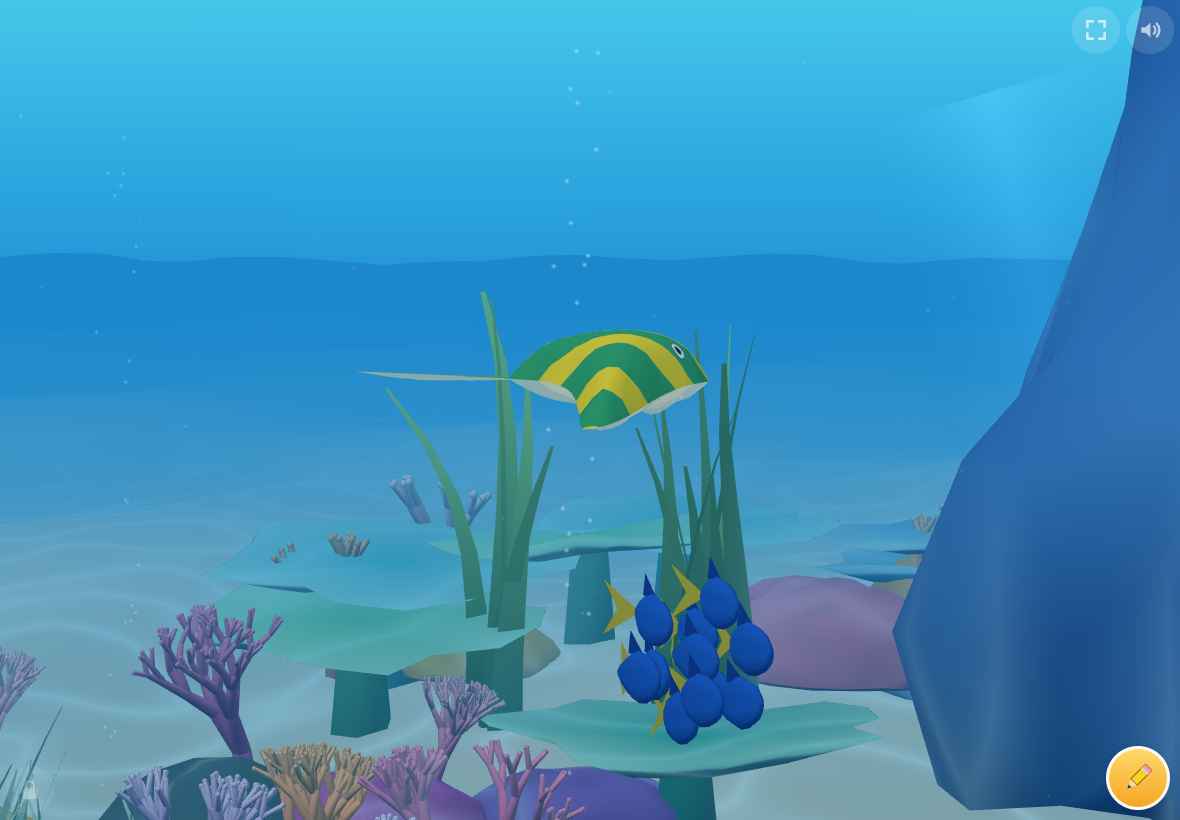
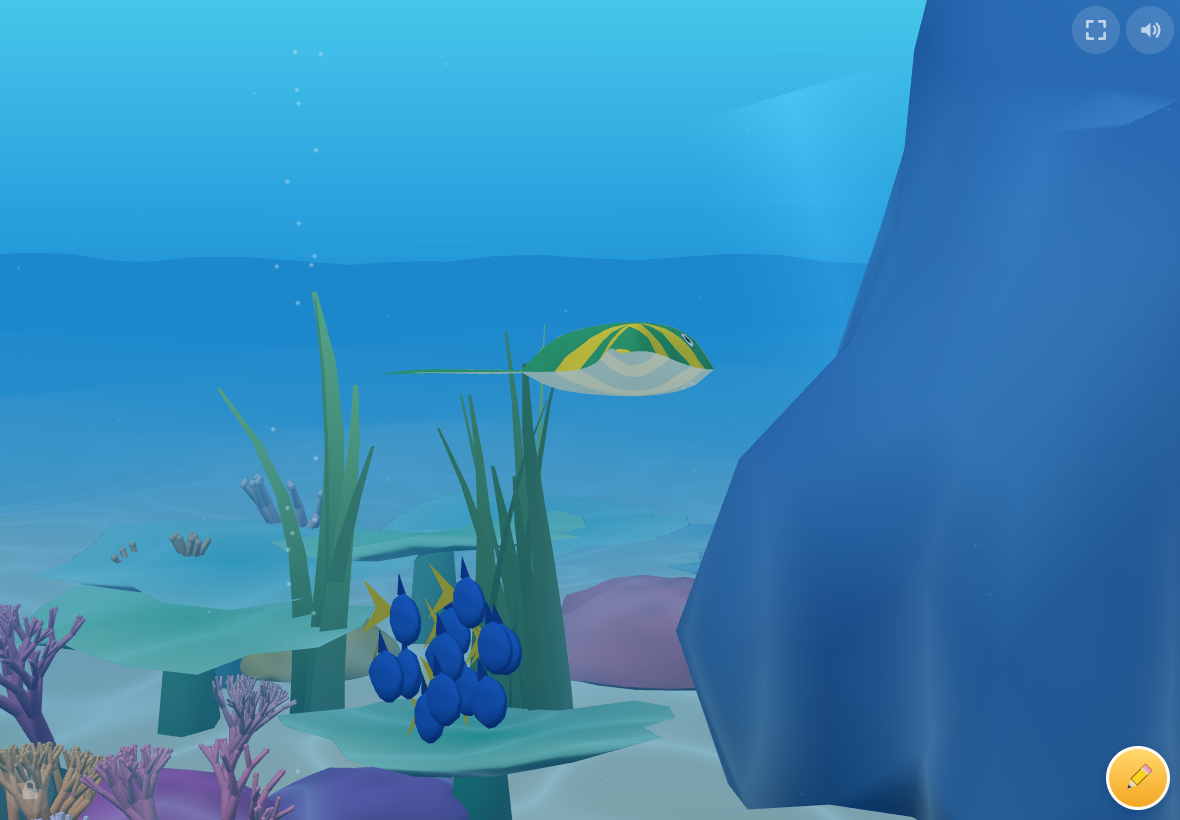
M8 tests: double tap and taps with the mouse, back to back, so a slow CI machine cannot stretch them
Claude-Session: https://claude.ai/code/session_01XW4PNQh5gj9EH5MLk7e84C

diff --git a/e2e/m8.spec.ts b/e2e/m8.spec.ts
@@ -1,6 +1,6 @@
 import { writeFileSync } from 'node:fs';
 import { expect, test } from '@playwright/test';
-import { creatureScreenPoint, holdRelease, line, newTouchPage, openPanel, PHONE, registrationError, reloadAndRestore, rigState, seedCreatures, sceneInfo, spawnAt, TABLET, tap, touchDrag, touchPinch } from './helpers';
+import { creatureScreenPoint, holdRelease, line, newTouchPage, openPanel, PHONE, registrationError, reloadAndRestore, rigState, seedCreatures, sceneInfo, spawnAt, TABLET, touchDrag, touchPinch } from './helpers';
 
 type Pg = import('@playwright/test').Page;
 type W = {
@@ -59,7 +59,7 @@ test.describe('M8: kameraet', () => {
     await adv(page, 0.2);
     const q = (await creatureScreenPoint(page, id2)) as { x: number; y: number };
     expect(q).not.toBeNull();
-    await tap(cdp, [q.x, q.y]);
+    await page.mouse.click(q.x, q.y);
     await expect.poll(() => page.evaluate((cid) => !!(window as unknown as W).aquarium.creatures.creatures.find((c) => c.id === cid)?.reaction, id2)).toBe(true);
 
     // 9 px of finger wobble is still a tap; the drag starts after ~10 px.
@@ -196,9 +196,7 @@ test.describe('M8: følg dyr', () => {
     await adv(page, 0.2);
     const p = (await creatureScreenPoint(page, id)) as { x: number; y: number };
     expect(p).not.toBeNull();
-    await tap(cdp, [p.x, p.y]);
-    await page.waitForTimeout(120);
-    await tap(cdp, [p.x, p.y]);
+    await page.mouse.dblclick(p.x, p.y); // (a mouse double click: back to back, so a slow CI machine cannot stretch the gap)
     await adv(page, 0.1);
     expect(await page.evaluate(() => (window as unknown as W).aquarium.following?.id)).toBe(id);
     // The creature swims off; the camera goes after it and zooms in.
@@ -219,9 +217,7 @@ test.describe('M8: følg dyr', () => {
     // Follow again, then a double tap on empty water stops it.
     const q = (await creatureScreenPoint(page, id)) as { x: number; y: number } | null;
     if (q) {
-      await tap(cdp, [q.x, q.y]);
-      await page.waitForTimeout(120);
-      await tap(cdp, [q.x, q.y]);
+      await page.mouse.dblclick(q.x, q.y); // (a mouse double click: back to back, so a slow CI machine cannot stretch the gap)
       expect((await rigState(page)).following).toBe(true);
     } else {
       await page.evaluate((cid) => {
@@ -230,9 +226,7 @@ test.describe('M8: følg dyr', () => {
       }, id);
     }
     expect((await rigState(page)).following).toBe(true);
-    await tap(cdp, [700, 760]);
-    await page.waitForTimeout(120);
-    await tap(cdp, [702, 762]);
+    await page.mouse.dblclick(700, 760); // (a mouse double click: back to back, so a slow CI machine cannot stretch the gap)
     expect((await rigState(page)).following).toBe(false);
     expect(errors).toEqual([]);
     await ctx.close();
@@ -620,7 +614,7 @@ test.describe('M8: ydeevne og indhold', () => {
     await adv(page, 0.2);
     const q = (await creatureScreenPoint(page, id2)) as { x: number; y: number };
     expect(q, 'a creature is in view').not.toBeNull();
-    await tap(cdp, [q.x, q.y]);
+    await page.mouse.click(q.x, q.y);
     await expect(page.locator('.adult-confirm')).toBeVisible();
     expect(errors).toEqual([]);
     await ctx.close();
